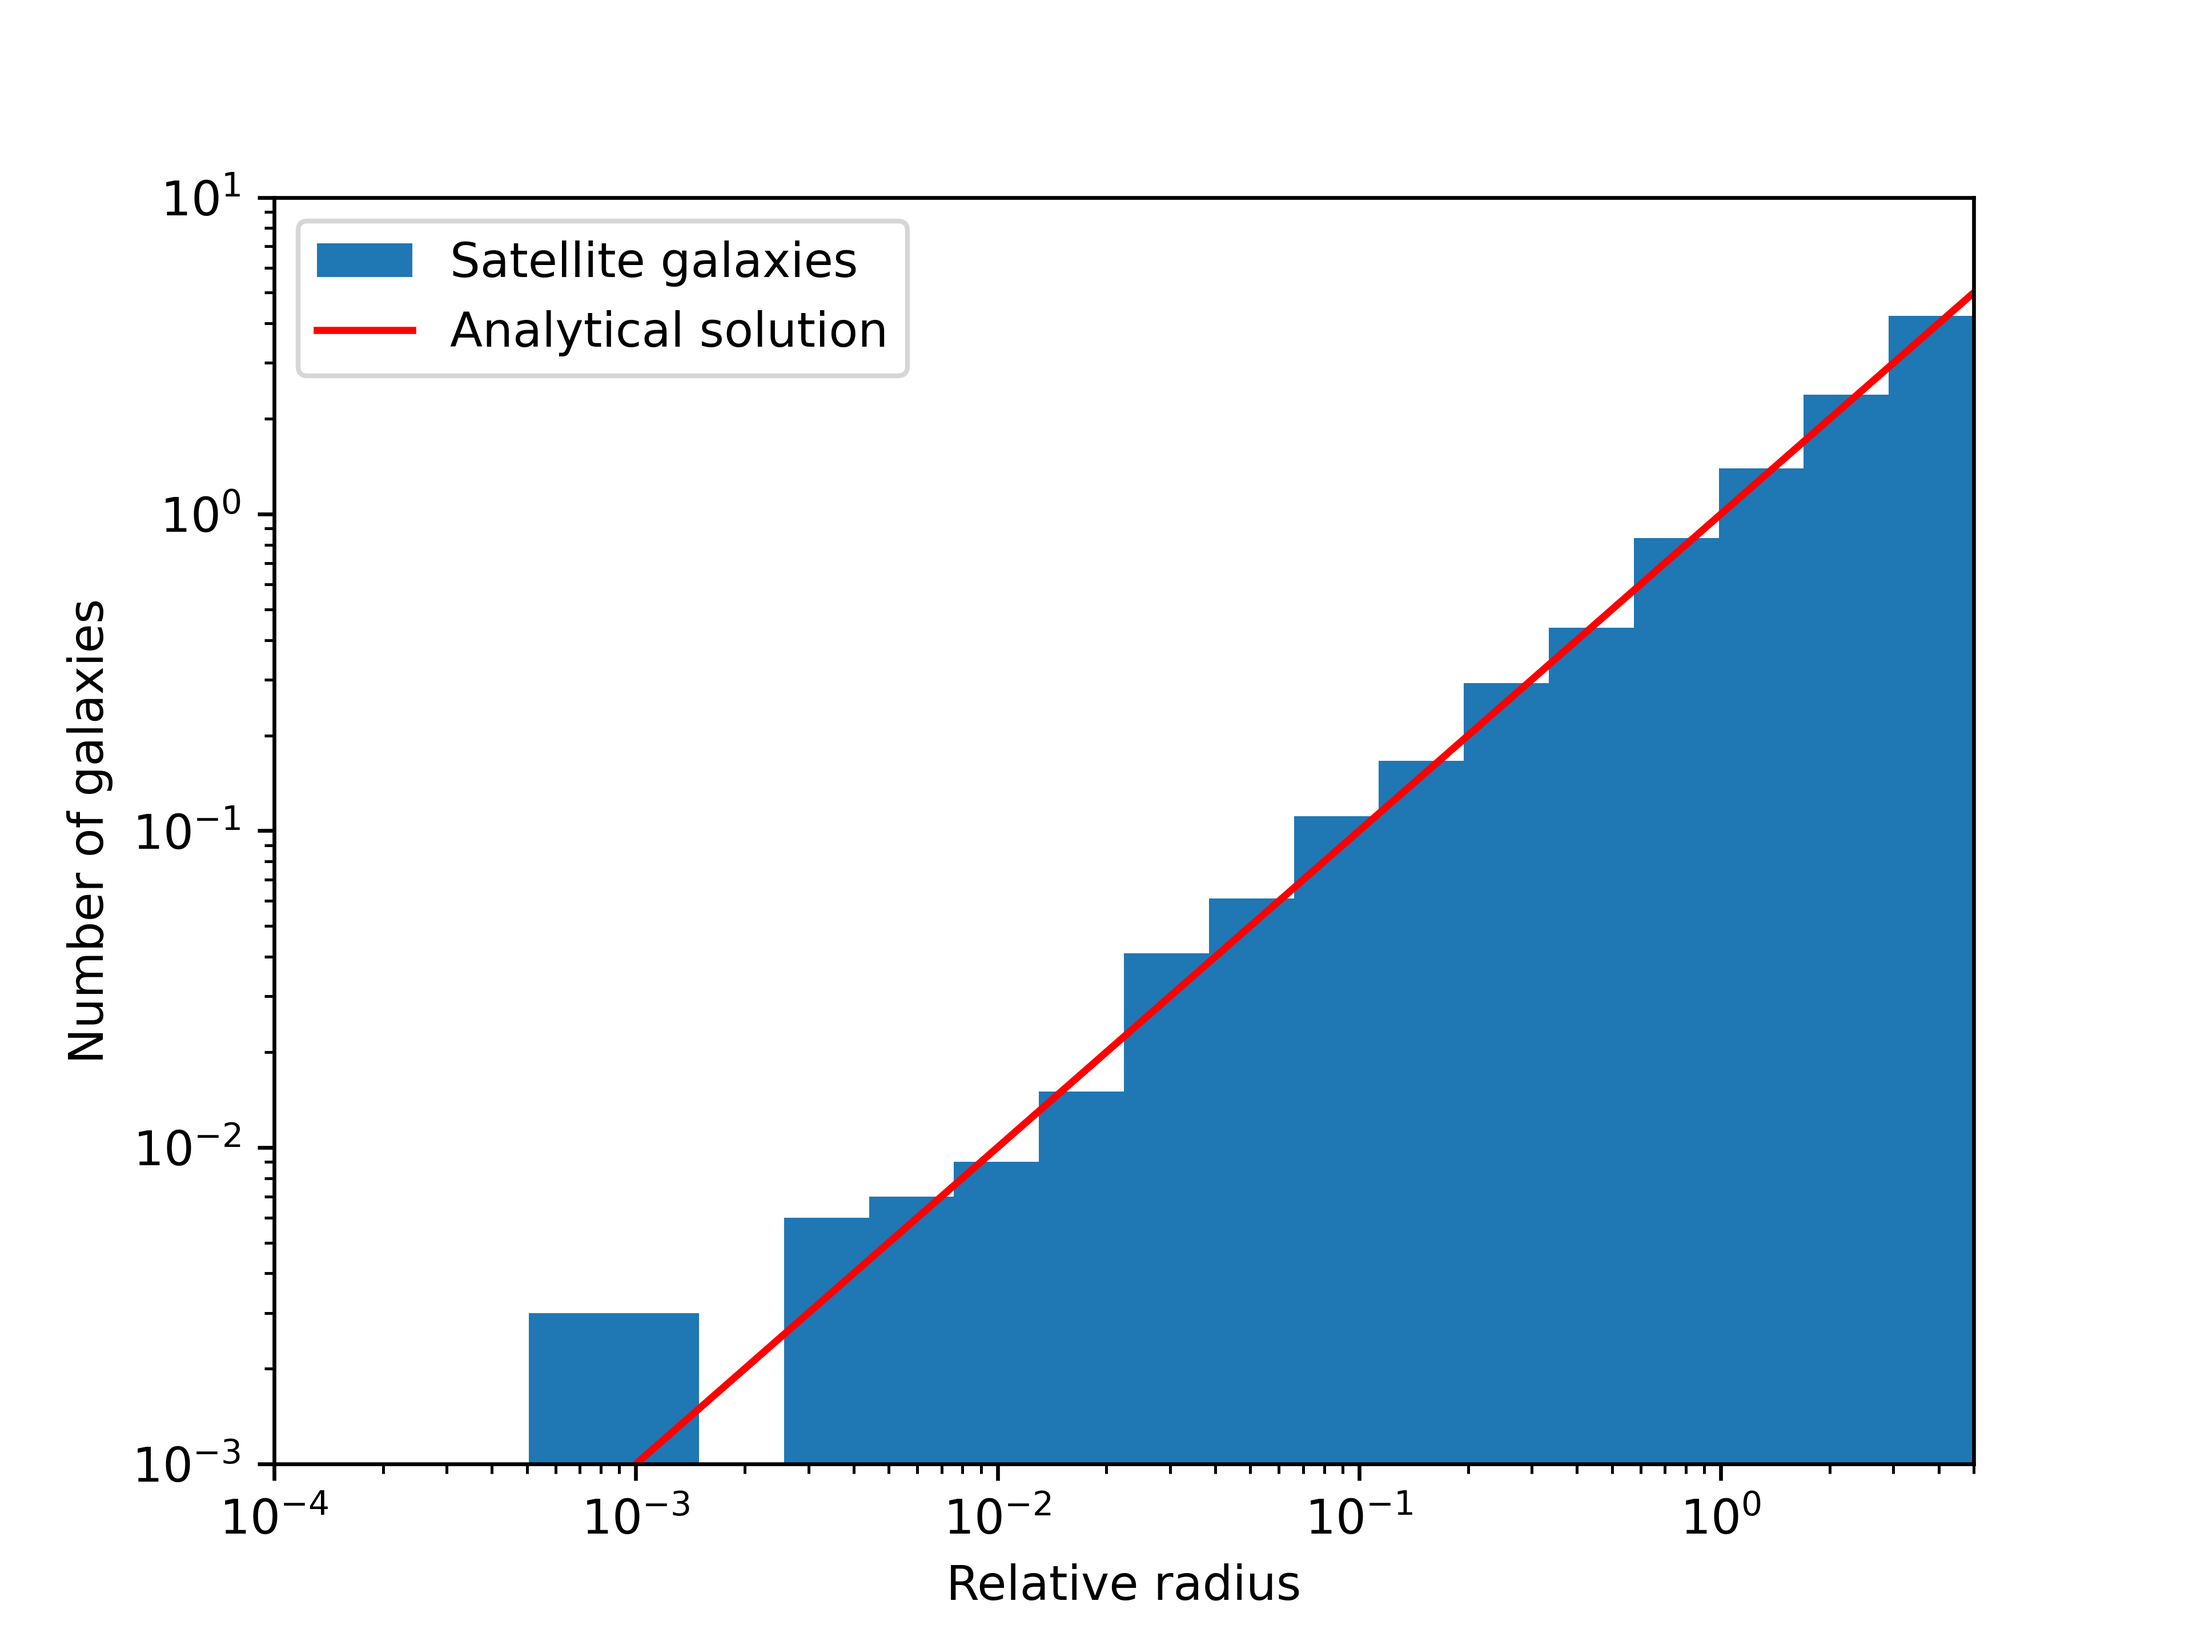
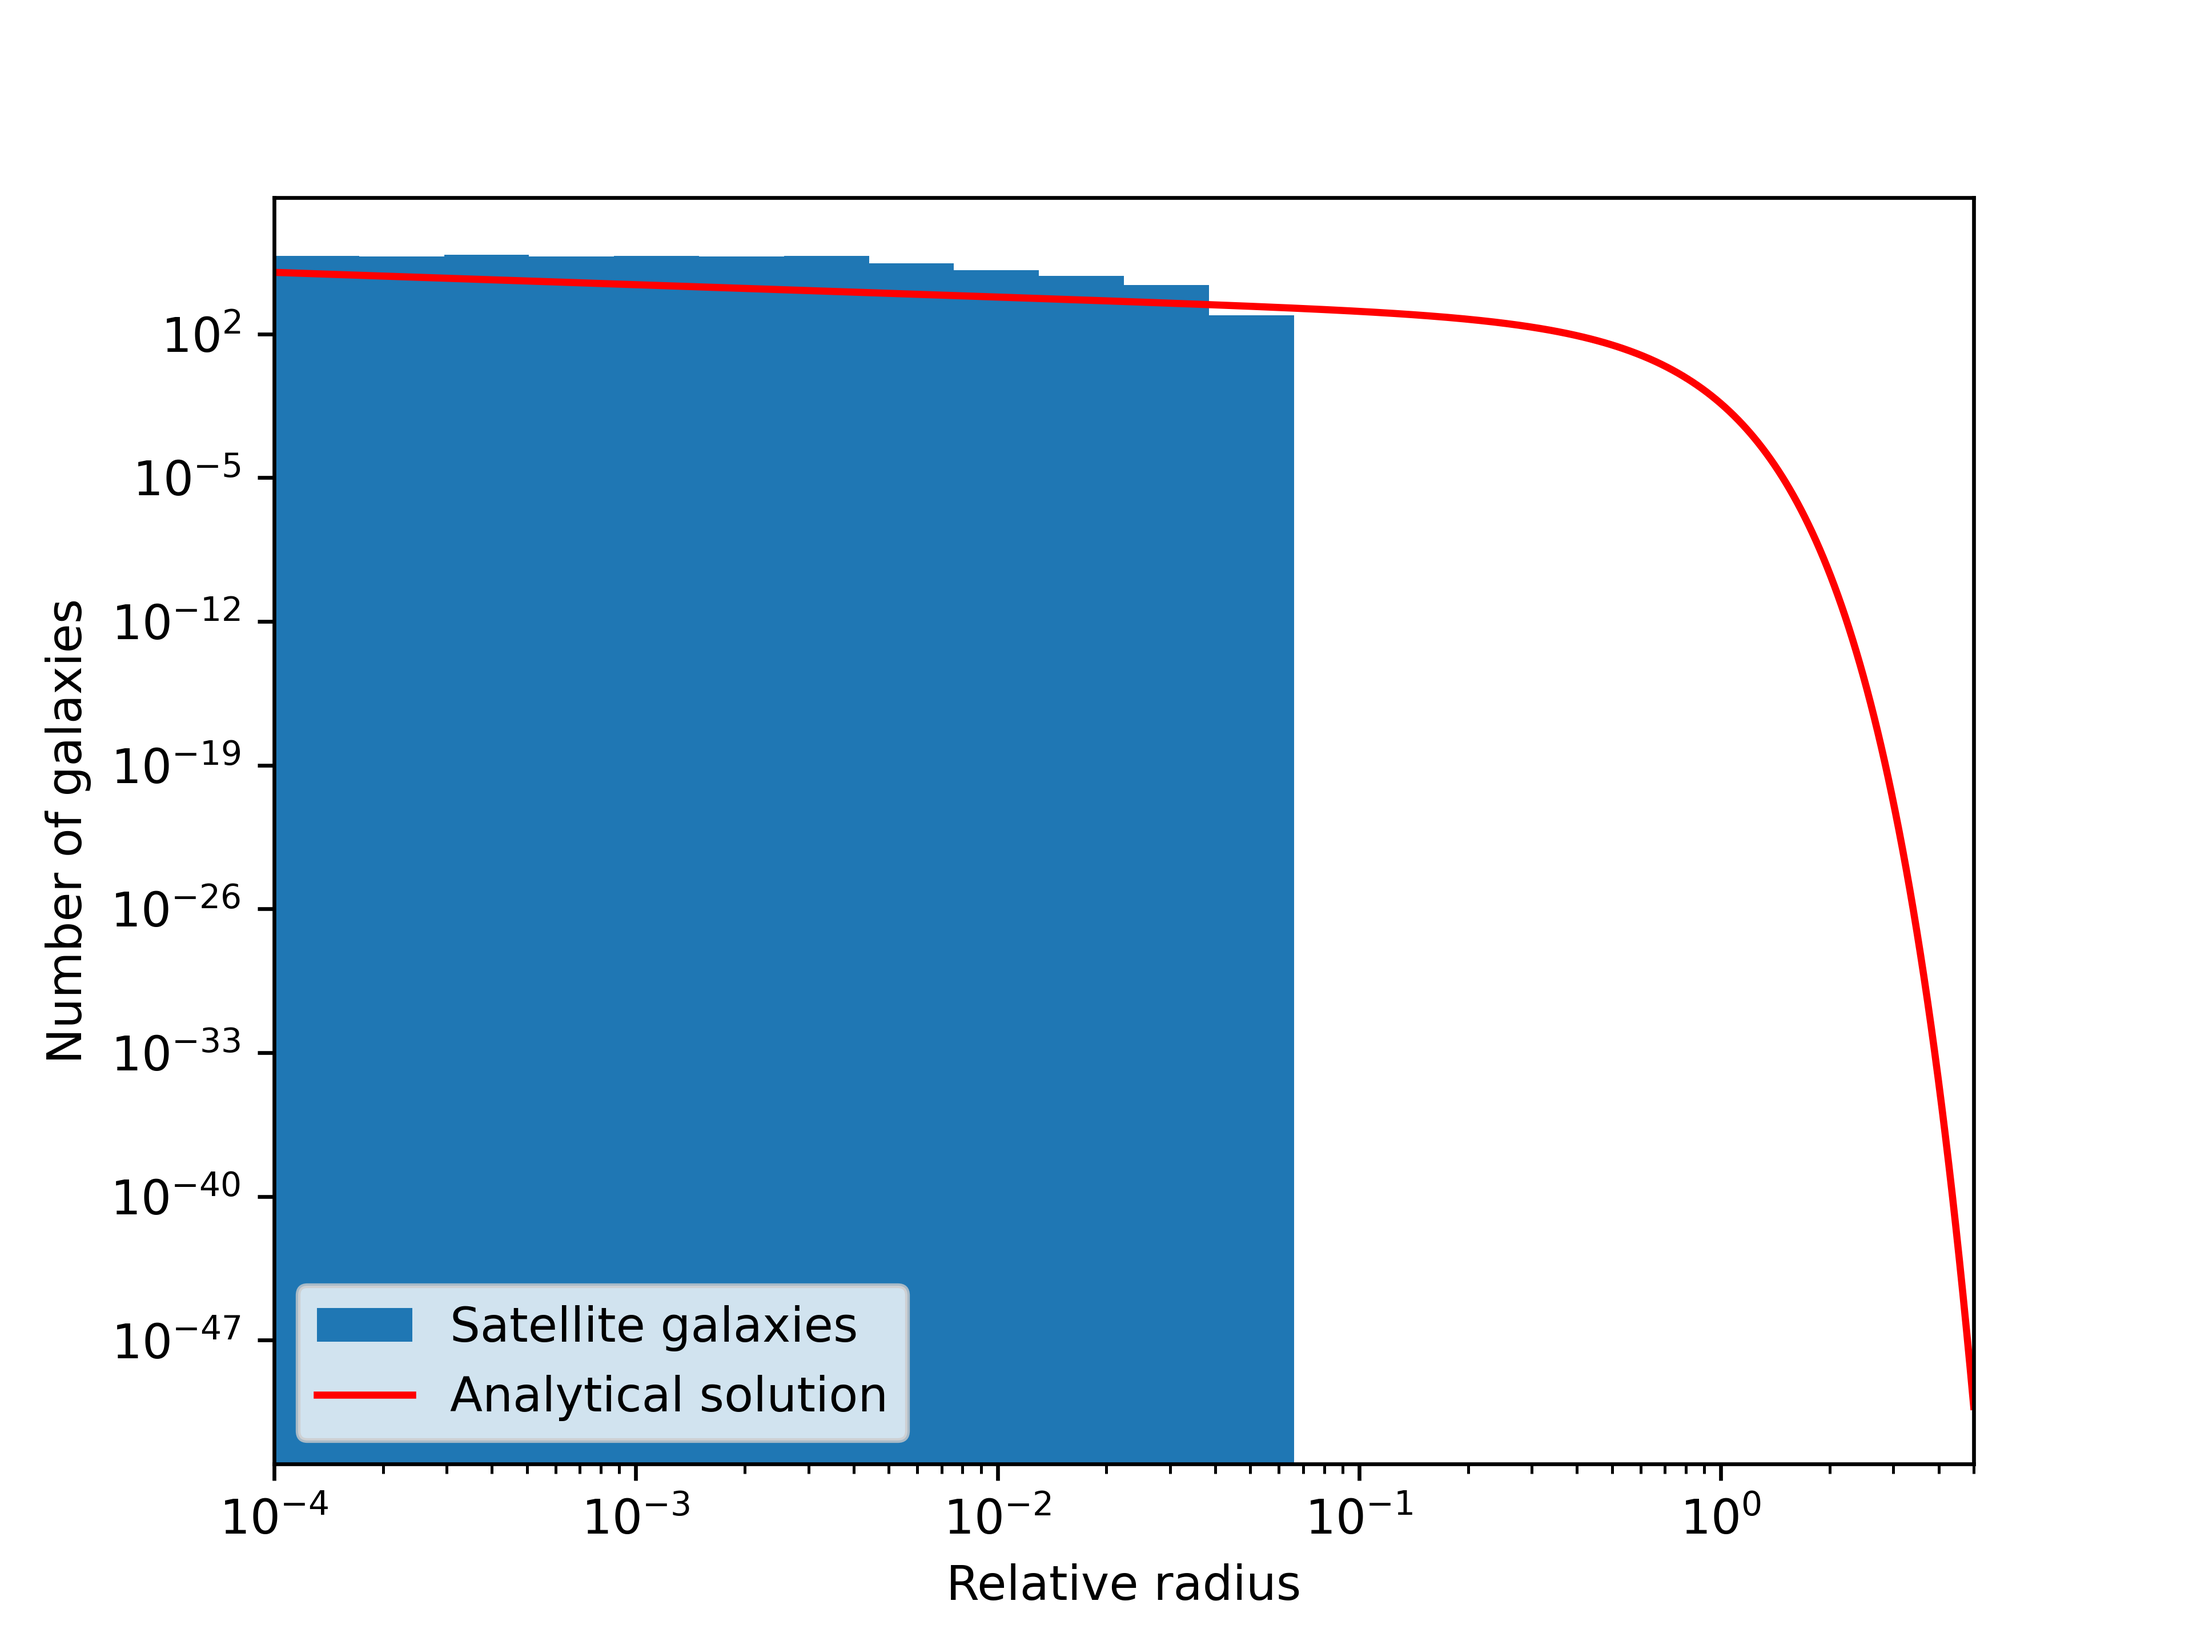
Made some small updates, probably most of the code is done

diff --git a/Q1_SatelliteGalaxy.py b/Q1_SatelliteGalaxy.py
@@ -97,6 +97,27 @@ def romberg_integrator(
 
 #### Sampler block ####
 
+def rng(N):
+    global seed
+    seed = np.uint(seed)
+    a = 4294957665
+    a_1 = 21
+    a_2 = 35
+    a_3 = 4
+    rnds = np.zeros(N)
+    for i in range(N):
+        # MWC 32-bit
+        seed = seed & (2**32 - 1)
+        seed = a*(seed & (2**32 - 1)) + (seed >> 32)
+        seed = seed & (2**32 - 1)
+
+        # 64-bit XOR-shift
+        seed = seed ^ (seed>>a_1)
+        seed = seed ^ (seed<<a_2)
+        seed = seed ^ (seed>>a_3)
+        u = seed / np.float64(2**64)
+        rnds[i] = u
+    return rnds
 
 def sampler(
     dist: callable,
@@ -104,6 +125,7 @@ def sampler(
     max: float,
     Nsamples: int,
     args: tuple = (),
+    N_cdf_samples = 1000
 ) -> np.ndarray:
     """
     Sample a distribution using sampling method of your choice
@@ -125,8 +147,25 @@ def sampler(
     sample: ndarray
         Values sampled from dist, shape (Nsamples,)
     """
+    def inverse_function(y, x_values, y_values):
+        for right_index, y_value in enumerate(y_values):
+            if y_value > y:
+                break
+        left_y_value, right_y_value = y_values[right_index - 1], y_values[right_index]
+        left_x_value, right_x_value = x_values[right_index - 1], x_values[right_index]
+        dx = (y - left_y_value) / (right_y_value - left_y_value)
+        return left_x_value + dx * (right_x_value - left_x_value)
 
-    return np.random.uniform(min, max, Nsamples) # REPLACE WITH OWN FUNCTION
+    cdf = np.zeros(N_cdf_samples)
+    x_values = np.linspace(min, max, N_cdf_samples)
+    for i, right in enumerate(x_values):
+        cdf[i] = romberg_integrator(dist, (min, right), args=args)
+    cdf /= np.max(cdf)
+    random = rng(Nsamples)
+    sample = np.zeros(Nsamples)
+    for i in range(Nsamples):
+        sample[i] = inverse_function(random[i], x_values, cdf)
+    return sample
 
 
 #### Sorting block ####
@@ -135,6 +174,7 @@ def sampler(
 def sort_array(
     arr: np.ndarray,
     inplace: bool = False,
+    index = False
 ) -> np.ndarray:
     """
     Sort a 1D array using a sorting algorithm of your choice
@@ -160,6 +200,7 @@ def sort_array(
 
     N = len(sorted_arr)
     step = 1
+    index_array = np.arange(N)
 
     while step < N:
         for i in range(0, N, step*2):
@@ -172,11 +213,13 @@ def sort_array(
                     l += 1
                 else:
                     sorted_arr[l:r+1] = np.roll(sorted_arr[l:r+1], 1) # REPLACE ROLL WITH OWN FUNCTION
+                    index_array[l:r+1] = np.roll(index_array[l:r+1], 1)
                     l += 1
                     r += 1
 
         step *= 2
-
+    if index:
+        return index_array
     return sorted_arr
 
 
@@ -197,8 +240,10 @@ def choice(arr: np.ndarray, size: int = 1) -> np.ndarray:
     chosen : ndarray
         Randomly chosen elements from arr, shape (size,)
     """
-    # TODO: Implement your choice function here, e.g. by using Fisher-Yates shuffling
-    return arr[:size].copy()
+    N = len(arr)
+    random = rng(N)
+    random_index = sort_array(random, index=True)
+    return arr[random_index][:size].copy()
 
 
 ##### Derivative block #####
@@ -330,29 +375,30 @@ def main():
     )
 
     p_of_x = (
-        lambda x: n(x) / (Nsat**2)
+        lambda x: n(x, A, Nsat, a, b, c) / (Nsat**2)
     )  # replace by the normalised distribution of satellite galaxies as a function of x
 
     # Numerically determine maximum to normalize p(x) for sampling
     pmax = 0.0  # replace by taking the maximum value of p_of_x
 
     p_of_x_norm = lambda x: 0.0  # replace by the normalised distribution
-    random_samples = sampler(p_of_x_norm, min=xmin, max=xmax, Nsamples=N_generate, args=())
+    global seed
+    seed = 123456789
+    random_samples = sampler(p_of_x, min=xmin, max=xmax, Nsamples=N_generate, args=())
 
     edges = 10 ** np.linspace(np.log10(xmin), np.log10(xmax), 21)
 
     hist = np.histogram(
-        xmin + np.sort(np.random.rand(N_generate)) * (xmax - xmin), bins=edges
+        random_samples, bins=edges
     )[
         0
     ]  # replace!
-    hist_scaled = (
-        1e-3 * hist
+    hist_scaled = (hist * 2 / (edges[1:]+edges[:-1])
     )  # replace; this is NOT what you should be plotting, this is just a random example to get a plot with reasonable y values (think about how you *should* scale hist)
 
     fig = plt.figure()
-    relative_radius = edges.copy()  # replace!
-    analytical_function = edges.copy()  # replace
+    relative_radius = np.linspace(xmin,xmax, 1000)  # replace!
+    analytical_function = n(relative_radius, A, Nsat, a, b, c)  # replace
 
     fig1b, ax = plt.subplots()
     ax.stairs(
@@ -363,7 +409,7 @@ def main():
     )  # correct this according to the exercise!
     ax.set(
         xlim=(xmin, xmax),
-        ylim=(10 ** (-3), 10),  # you may or may not need to change ylim
+        # ylim=(10 ** (-3), 10),  # you may or may not need to change ylim
         yscale="log",
         xscale="log",
         xlabel="Relative radius",
@@ -373,7 +419,7 @@ def main():
     plt.savefig("Plots/my_solution_1b.png", dpi=600)
 
     # Cumulative plot of the chosen galaxies (1c)
-    chosen = xmin + np.sort(np.random.rand(Nsat)) * (xmax - xmin)  # replace!
+    chosen = sort_array(choice(random_samples, 100), inplace=True)  # replace!
     fig1c, ax = plt.subplots()
     ax.plot(chosen, np.arange(100))
     ax.set(
